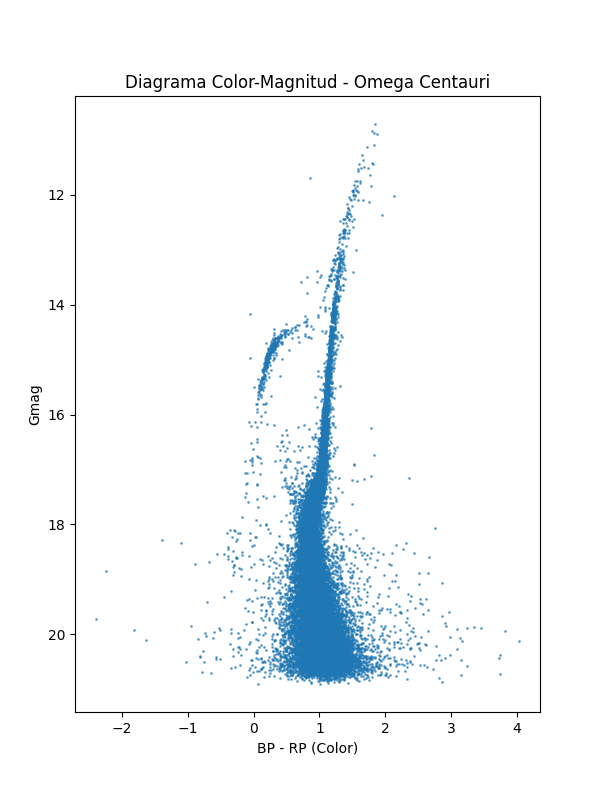
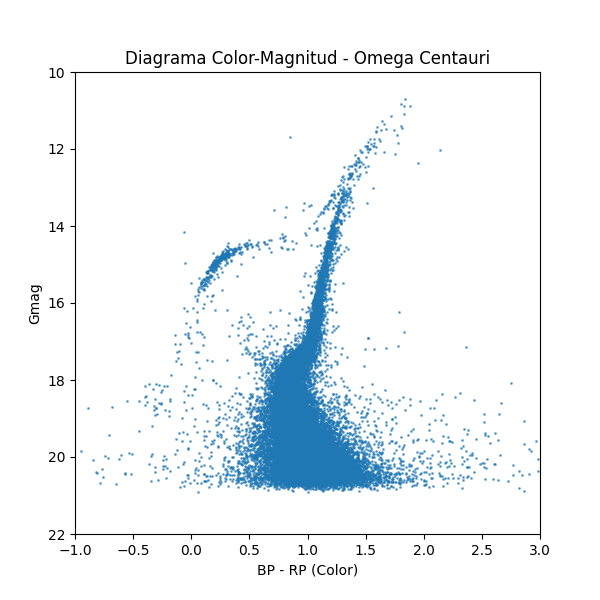
Actualizar scripts de análisis, corregir base de datos y actualizar README

diff --git a/3_analisis.py b/3_analisis.py
@@ -39,11 +39,13 @@ print(f"Estrellas del cúmulo: {len(df_cumulo)}")
 # índice de color
 df_cumulo['color'] = df_cumulo['BPmag'] - df_cumulo['RPmag']
 
-plt.figure(figsize=(6,8))
+plt.figure(figsize=(6,6))
 plt.scatter(df_cumulo['color'], df_cumulo['Gmag'], s=1, alpha=0.6)
 
 plt.xlabel('BP - RP (Color)')
 plt.ylabel('Gmag')
+plt.xlim(-1,3)
+plt.ylim(10,22)
 plt.title('Diagrama Color-Magnitud - Omega Centauri')
 
 # Se invierte el eje y

diff --git a/README.md b/README.md
@@ -2,12 +2,12 @@
 
 Omega Centauri no es un cúmulo globular ordinario. Existe evidencia científica de que podría ser el **núcleo remanente de una galaxia enana** que la Vía Láctea "devoró" hace miles de millones de años. 
 
-El objetivo de este proyecto es actuar como un "arqueólogo galáctico", utilizando el movimiento propio para separar las estrellas que realmente pertenecen al cúmulo de aquellas que pertenecen al disco de nuestra galaxia y que solo están ahí de fondo visualmente.
+El objetivo de este proyecto es utilizar el movimiento propio para separar las estrellas que realmente pertenecen al cúmulo de aquellas que pertenecen al disco de nuestra galaxia y que solo están ahí de fondo visualmente.
 
 ---
 
 ## Datos de Localización
-Para centrar la búsqueda, utilicé las coordenadas precisas obtenidas a través de la interfaz de **SIMBAD**:
+Desde la interfaz de **SIMBAD** se utilizaron las coordenadas precisas:
 
 | Parámetro | Valor Original (HMS/DMS) | Grados Decimales |
 | :--- | :--- | :--- |
@@ -19,7 +19,7 @@ Para centrar la búsqueda, utilicé las coordenadas precisas obtenidas a través
 ## Metodología
 
 ### 1. Descarga de Datos
-Utilicé un script en Bash (`1_descarga_omega.sh`) para realizar una consulta ADQL al catálogo **Gaia DR3** mediante el endpoint de VizieR. Se extrajo un radio de 0.5° con las siguientes columnas clave: `Source`, `RA_ICRS`, `DE_ICRS`, `pmRA`, `pmDE`, `Gmag`, `BPmag`, `RPmag`.
+Se utlizo un script en Bash (`1_descarga_omega.sh`) para realizar una consulta ADQL al catálogo **Gaia DR3** mediante el endpoint de VizieR. Se extrajo un radio de 0.5° con las siguientes columnas clave: `Source`, `RA_ICRS`, `DE_ICRS`, `pmRA`, `pmDE`, `Gmag`, `BPmag`, `RPmag`.
 
 ### 2. Limpieza y Base de Datos (SQL & Python)
 Debido a que los datos astronómicos suelen venir con caracteres especiales, el script `2_crear_db.py` realizó lo siguiente:
@@ -29,7 +29,7 @@ Debido a que los datos astronómicos suelen venir con caracteres especiales, el 
 * Almacenamiento en una base de datos **SQLite** (`arqueologia.db`).
 
 ### 3. Análisis
-El punto clave fue graficar el **Movimiento Propio** (`pmRA` vs `pmDE`). Al hacerlo, se identificó un "racimo" muy denso desplazado del origen (0,0), lo que confirma que el cúmulo se mueve como un enjambre unido. Para aislarlo, apliqué el siguiente filtro SQL:
+La clave fue graficar el **Movimiento Propio** (`pmRA` vs `pmDE`). Al hacerlo, se identificó un "racimo" muy denso desplazado del origen (0,0), lo que confirma que el cúmulo se mueve como un enjambre unido. Para aislarlo, apliqué el siguiente filtro SQL:
 
 ```sql
 SELECT * FROM estrellas 
@@ -43,24 +43,18 @@ AND pmDE BETWEEN -9 AND -5
 ### Gráfica 1: Identificación de la Población
 En esta gráfica de dispersión identifiqué el movimiento de Omega Centauri separado del fondo galáctico. El punto denso representa las estrellas ligadas gravitacionalmente al cúmulo.
 
-![Gráfica de Movimiento Propio]
+![Gráfica de Movimiento Propio](Gráfica_1.png)
 
 ### Gráfica 2: Diagrama HR (Color-Magnitud)
 Con las estrellas filtradas, calculé el índice de color ($BP - RP$) y grafiqué la Magnitud G invertida. El resultado es un diagrama mucho más limpio donde se distinguen las fases evolutivas de las estrellas del cúmulo.
 
-![Diagrama Color-Magnitud]
+![Diagrama Color-Magnitud](Gráfica_2.png)
 
 ---
 
-## 🧠 Conclusión
+## Conclusión
 El movimiento propio es una herramienta fundamental para la arqueología galáctica. Gracias a este filtro, logré aislar Omega Centauri y obtener un diagrama estelar coherente, demostrando que este objeto es efectivamente una población estelar distinta a la de la Vía Láctea, consistente con la teoría de su origen como galaxia enana capturada.
 
----
-
-## Herramientas
-* **Python:** Pandas, Matplotlib, Sqlite3.
-* **Bash:** Wget.
-* **Catálogos:** Gaia DR3, VizieR, SIMBAD.
 
 ---
 